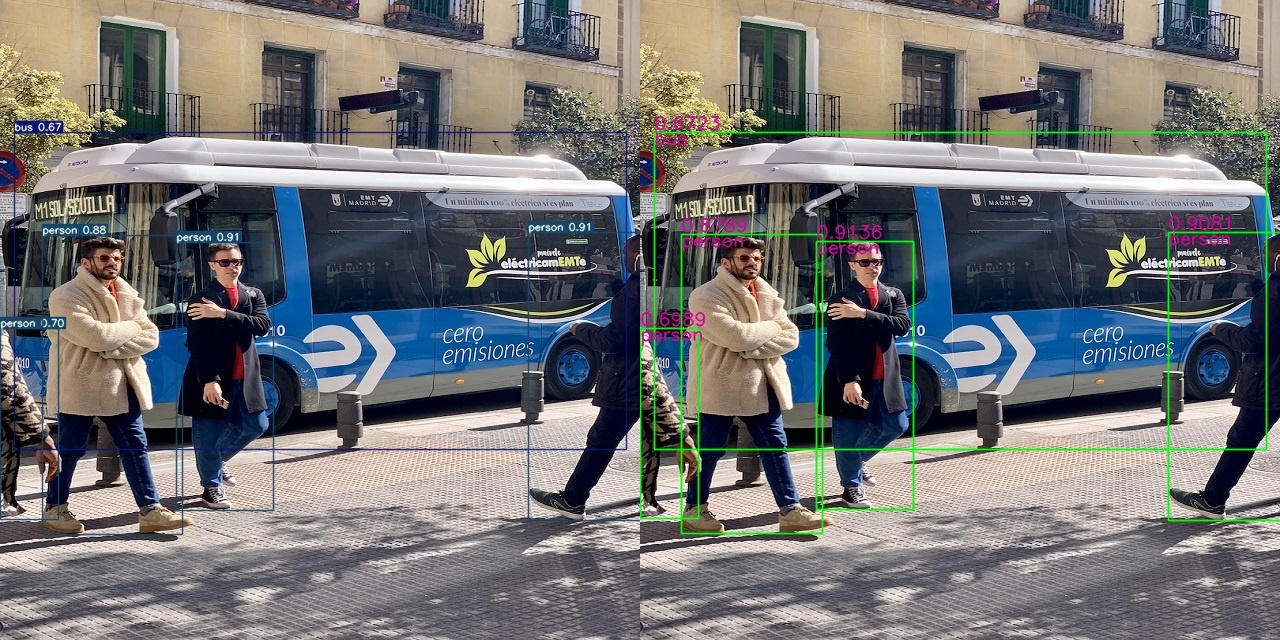
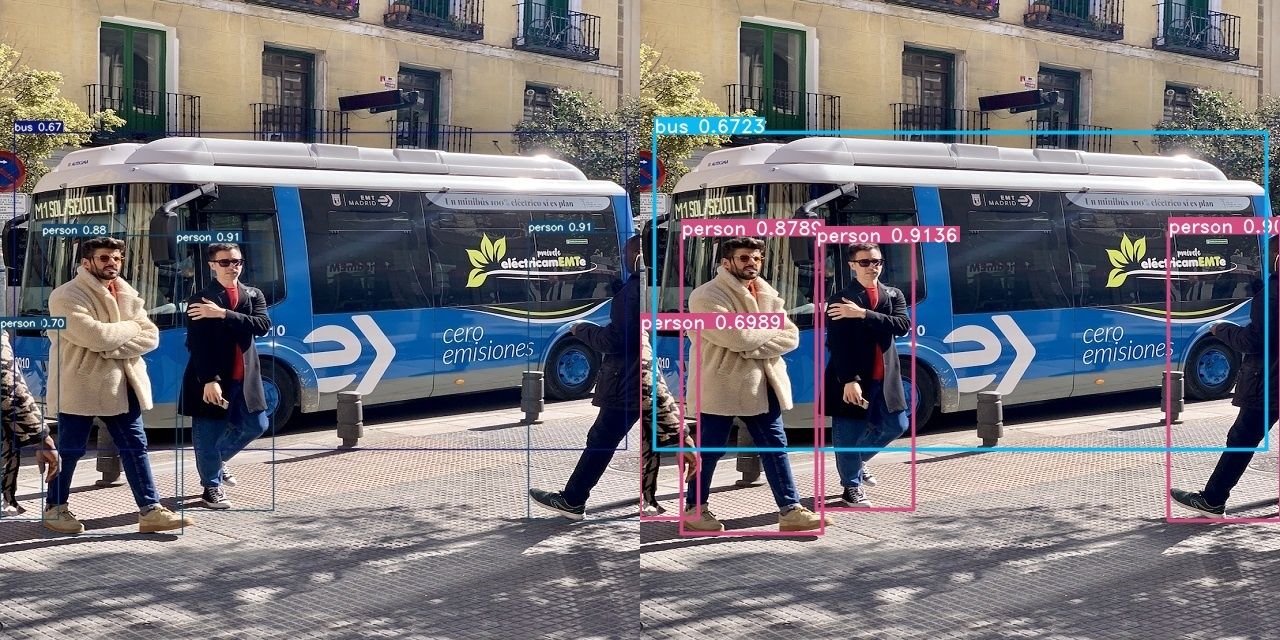
update yolov5.7 yolov6.3 render dstimages!

Changed region(s): [[0.5, 0.1562, 1.0, 0.8438]]

diff --git a/README.md b/README.md
@@ -25,14 +25,10 @@
 </div> 
 
 ## Introduce
-This repository  provides accelerated deployment cases of deep learning CV   popular models, and cuda c accelerated methods for pre-processing and post-processing of mainstream models. Most of the model transformation process is torch->onnx->tensorrt. There are two ways to obtain onnx files:
-- According to the network disk provided by this  repository, download ONNX directly
-- Follow the instructions provided in this repository to manually export ONNX from the relevant source code framework.
-
-```mermaid
-graph LR
-    pytorch/tensorflow -->onnx-->tensorrt
-```
+This repository  provides accelerated deployment cases of deep learning CV popular models, and cuda c supports dynamic-batch image process, infer, decode, NMS. Most of the model transformation process is torch->onnx->tensorrt.<br>
+There are two ways to obtain onnx files:
+- According to the network disk provided by TensorRT-Alpha, download ONNX directly. [weiyun](https://share.weiyun.com/3T3mZKBm) or [google driver](https://drive.google.com/drive/folders/1-8phZHkx_Z274UVqgw6Ma-6u5AKmqCOv?usp=sharing)
+- Follow the instructions provided by TensorRT-Alpha to manually export ONNX from the relevant python source code framework.
 
 ## Update
 - 2023.01.01  🔥 update yolov3, yolov4, yolov5, yolov6
@@ -98,21 +94,37 @@ At present, more than 30  models have been implemented, and some onnx files of t
 
 <div align='center'>
 
-| model |weiyun |google driver |
- :-: | :-: | :-: |
-|[yolov3](yolov3/README.md)| [weiyun](https://share.weiyun.com/3T3mZKBm)| [google driver](https://drive.google.com/drive/folders/1-8phZHkx_Z274UVqgw6Ma-6u5AKmqCOv?usp=sharing)|      
-|[yolov4](yolov4/README.md)| [weiyun](https://share.weiyun.com/3T3mZKBm)| [google driver](https://drive.google.com/drive/folders/1-8phZHkx_Z274UVqgw6Ma-6u5AKmqCOv?usp=sharing)|
-|[yolov5](yolov5/README.md)| [weiyun](https://share.weiyun.com/3T3mZKBm)| [google driver](https://drive.google.com/drive/folders/1-8phZHkx_Z274UVqgw6Ma-6u5AKmqCOv?usp=sharing)|     
-|[yolov6](yolov6/README.md)| [weiyun](https://share.weiyun.com/3T3mZKBm)| [google driver](https://drive.google.com/drive/folders/1-8phZHkx_Z274UVqgw6Ma-6u5AKmqCOv?usp=sharing)|     
-|[yolov7](yolov7/README.md)| [weiyun](https://share.weiyun.com/3T3mZKBm)| [google driver](https://drive.google.com/drive/folders/1-8phZHkx_Z274UVqgw6Ma-6u5AKmqCOv?usp=sharing)|     
-|[yolov8](yolov8/README.md)| [weiyun](https://share.weiyun.com/3T3mZKBm)| [google driver](https://drive.google.com/drive/folders/1-8phZHkx_Z274UVqgw6Ma-6u5AKmqCOv?usp=sharing)|     
-|[yolox](yolox/README.md)| [weiyun](https://share.weiyun.com/3T3mZKBm)| [google driver](https://drive.google.com/drive/folders/1-8phZHkx_Z274UVqgw6Ma-6u5AKmqCOv?usp=sharing)|     
-|[yolor](yolor/README.md)| [weiyun](https://share.weiyun.com/3T3mZKBm)| [google driver](https://drive.google.com/drive/folders/1-8phZHkx_Z274UVqgw6Ma-6u5AKmqCOv?usp=sharing)|     
-|[u2net](u2net/README.md)| [weiyun](https://share.weiyun.com/3T3mZKBm)| [google driver](https://drive.google.com/drive/folders/1-8phZHkx_Z274UVqgw6Ma-6u5AKmqCOv?usp=sharing)|     
-|[libfacedet](libfacedetection/README.md)| [weiyun](https://share.weiyun.com/3T3mZKBm)| [google driver](https://drive.google.com/drive/folders/1-8phZHkx_Z274UVqgw6Ma-6u5AKmqCOv?usp=sharing)|     
-|[facemesh](facemesh/README.md)| [weiyun](https://share.weiyun.com/3T3mZKBm)| [google driver](https://drive.google.com/drive/folders/1-8phZHkx_Z274UVqgw6Ma-6u5AKmqCOv?usp=sharing)|     
+| model | tesla v100(32G) |weiyun |google driver |
+  :-: | :-: | :-: | :-: |
+|[yolov3](yolov3/README.md)| |[weiyun](https://share.weiyun.com/3T3mZKBm)| [google driver](https://drive.google.com/drive/folders/1-8phZHkx_Z274UVqgw6Ma-6u5AKmqCOv?usp=sharing)|      
+|[yolov4](yolov4/README.md)| |[weiyun](https://share.weiyun.com/3T3mZKBm)| [google driver](https://drive.google.com/drive/folders/1-8phZHkx_Z274UVqgw6Ma-6u5AKmqCOv?usp=sharing)|
+|[yolov5](yolov5/README.md)| |[weiyun](https://share.weiyun.com/3T3mZKBm)| [google driver](https://drive.google.com/drive/folders/1-8phZHkx_Z274UVqgw6Ma-6u5AKmqCOv?usp=sharing)|     
+|[yolov6](yolov6/README.md)| |[weiyun](https://share.weiyun.com/3T3mZKBm)| [google driver](https://drive.google.com/drive/folders/1-8phZHkx_Z274UVqgw6Ma-6u5AKmqCOv?usp=sharing)|     
+|[yolov7](yolov7/README.md)| |[weiyun](https://share.weiyun.com/3T3mZKBm)| [google driver](https://drive.google.com/drive/folders/1-8phZHkx_Z274UVqgw6Ma-6u5AKmqCOv?usp=sharing)|     
+|[yolov8](yolov8/README.md)| |[weiyun](https://share.weiyun.com/3T3mZKBm)| [google driver](https://drive.google.com/drive/folders/1-8phZHkx_Z274UVqgw6Ma-6u5AKmqCOv?usp=sharing)|     
+|[yolox](yolox/README.md)| |[weiyun](https://share.weiyun.com/3T3mZKBm)| [google driver](https://drive.google.com/drive/folders/1-8phZHkx_Z274UVqgw6Ma-6u5AKmqCOv?usp=sharing)|     
+|[yolor](yolor/README.md)| |[weiyun](https://share.weiyun.com/3T3mZKBm)| [google driver](https://drive.google.com/drive/folders/1-8phZHkx_Z274UVqgw6Ma-6u5AKmqCOv?usp=sharing)|     
+|[u2net](u2net/README.md)| |[weiyun](https://share.weiyun.com/3T3mZKBm)| [google driver](https://drive.google.com/drive/folders/1-8phZHkx_Z274UVqgw6Ma-6u5AKmqCOv?usp=sharing)|     
+|[libfacedet](libfacedetection/README.md)| |[weiyun](https://share.weiyun.com/3T3mZKBm)| [google driver](https://drive.google.com/drive/folders/1-8phZHkx_Z274UVqgw6Ma-6u5AKmqCOv?usp=sharing)|     
+|[facemesh](facemesh/README.md)| |[weiyun](https://share.weiyun.com/3T3mZKBm)| [google driver](https://drive.google.com/drive/folders/1-8phZHkx_Z274UVqgw6Ma-6u5AKmqCOv?usp=sharing)|     
 |more...(🚀: I will be back soon!)    |      |          |
 </div>  
+
+🍉We will test the time of all models on tesla v100 and A100! Now let's preview the performance of yolov8n on RTX2070m(8G)：
+<div align='center'>
+
+| model | input size |GPU Memory-Usage |GPU-Util|
+  :-: | :-: | :-: | :-: |
+|yolov8n|640x640(batch_size=8)|1093MiB/7982MiB| 14%| 
+
+ <center>	<!--将图片和文字居中-->
+<img src=".github/cost-time-yolov8n-batch-8-640.png"
+     alt="无法显示图片时显示的文字"
+     style="zoom:50%"/>
+<br>		<!--换行-->
+
+</div>
+<br>
 
 ## Some Precision Alignment Renderings Comparison
 <br>
@@ -120,7 +132,7 @@ At present, more than 30  models have been implemented, and some onnx files of t
      <center>	<!--将图片和文字居中-->
     <img src=".github/yolov8n-Offical(left)vsOurs(right).jpg"
          alt="无法显示图片时显示的文字"
-         style="zoom:100%"/>
+         style="zoom:80%"/>
     <br>		<!--换行-->
     <center>yolov8n : Offical( left ) vs Ours( right )	<!--标题--></center>
     <br>		<!--换行-->
@@ -128,14 +140,28 @@ At present, more than 30  models have been implemented, and some onnx files of t
     <center>	<!--将图片和文字居中-->
     <img src=".github/yolov7-tiny-Offical(left)vsOurs(right).jpg"
          alt="无法显示图片时显示的文字"
-         style="zoom:100%"/>
+         style="zoom:80%"/>
     <br>		<!--换行-->
     <center>yolov7-tiny : Offical( left ) vs Ours( right )	<!--标题--></center>
     <br>		<!--换行-->
     <br>		<!--换行-->
-    <img src=".github/yolov5s-Offical(left)vsOurs(right).jpg"
+    <img src=".github/yolov6s-v6.3-Offical(left)vsOurs(right).jpg"
          alt="无法显示图片时显示的文字"
-         style="zoom:100%"/>
+         style="zoom:80%"/>
+    <br>		<!--换行-->
+    <center>yolov6s : Offical( left ) vs Ours( right )	<!--标题--></center>
+    <br>		<!--换行-->
+    <br>		<!--换行-->
+    <img src=".github/yolov5s-v5.7-Offical(left)vsOurs(right)-img2.jpg"
+         alt="无法显示图片时显示的文字"
+         style="zoom:80%"/>
+    <br>		<!--换行-->
+    <center>yolov5s : Offical( left ) vs Ours( right )	<!--标题--></center>
+    <br>		<!--换行-->
+    <br>		<!--换行-->
+    <img src=".github/yolov5s-v5.7-Offical(left)vsOurs(right)-img1.jpg"
+         alt="无法显示图片时显示的文字"
+         style="zoom:80%"/>
     <br>		<!--换行-->
     <center>yolov5s : Offical( left ) vs Ours( right )	<!--标题--></center>
     <br>		<!--换行-->

diff --git a/README_cn.md b/README_cn.md
@@ -24,15 +24,10 @@
 </div> 
 
 ## 介绍
-本仓库提供深度学习CV领域模型加速部署案例，主流模型前处理、后处理提供cuda c加速方法。大部分模型转换流程为：torch->onnx->tensorrt。获取onnx文件以下有两种方式：
-
-- 本仓库提供的网盘直接下载onnx；
+本仓库提供深度学习CV领域模型加速部署案例，仓库实现的cuda c支持多batch图像预处理、推理、decode、NMS。大部分模型转换流程为：torch->onnx->tensorrt。
+获取onnx文件以下有两种方式：<br>
+- 本仓库提供的网盘直接下载onnx。[weiyun](https://share.weiyun.com/3T3mZKBm) or [google driver](https://drive.google.com/drive/folders/1-8phZHkx_Z274UVqgw6Ma-6u5AKmqCOv?usp=sharing)
 - 按照本仓库提供的指令，手动从相关源代码框架导出onnx。
-
-```mermaid
-graph LR
-    pytorch/tensorflow -->onnx-->tensorrt
-```
 
 ## 更新
 - 2023.01.01  🔥 更新 yolov3, yolov4, yolov5, yolov6
@@ -95,21 +90,37 @@ waiting for update
 目前已实现30多个主流模型，部分整理好的onnx文件如下列表：
 <div align='center'>
 
-| model |weiyun |google driver |
- :-: | :-: | :-: |
-|[yolov3](yolov3/README.md)| [weiyun](https://share.weiyun.com/3T3mZKBm)| [google driver](https://drive.google.com/drive/folders/1-8phZHkx_Z274UVqgw6Ma-6u5AKmqCOv?usp=sharing)|      
-|[yolov4](yolov4/README.md)| [weiyun](https://share.weiyun.com/3T3mZKBm)| [google driver](https://drive.google.com/drive/folders/1-8phZHkx_Z274UVqgw6Ma-6u5AKmqCOv?usp=sharing)|
-|[yolov5](yolov5/README.md)| [weiyun](https://share.weiyun.com/3T3mZKBm)| [google driver](https://drive.google.com/drive/folders/1-8phZHkx_Z274UVqgw6Ma-6u5AKmqCOv?usp=sharing)|     
-|[yolov6](yolov6/README.md)| [weiyun](https://share.weiyun.com/3T3mZKBm)| [google driver](https://drive.google.com/drive/folders/1-8phZHkx_Z274UVqgw6Ma-6u5AKmqCOv?usp=sharing)|     
-|[yolov7](yolov7/README.md)| [weiyun](https://share.weiyun.com/3T3mZKBm)| [google driver](https://drive.google.com/drive/folders/1-8phZHkx_Z274UVqgw6Ma-6u5AKmqCOv?usp=sharing)|     
-|[yolov8](yolov8/README.md)| [weiyun](https://share.weiyun.com/3T3mZKBm)| [google driver](https://drive.google.com/drive/folders/1-8phZHkx_Z274UVqgw6Ma-6u5AKmqCOv?usp=sharing)|     
-|[yolox](yolox/README.md)| [weiyun](https://share.weiyun.com/3T3mZKBm)| [google driver](https://drive.google.com/drive/folders/1-8phZHkx_Z274UVqgw6Ma-6u5AKmqCOv?usp=sharing)|     
-|[yolor](yolor/README.md)| [weiyun](https://share.weiyun.com/3T3mZKBm)| [google driver](https://drive.google.com/drive/folders/1-8phZHkx_Z274UVqgw6Ma-6u5AKmqCOv?usp=sharing)|     
-|[u2net](u2net/README.md)| [weiyun](https://share.weiyun.com/3T3mZKBm)| [google driver](https://drive.google.com/drive/folders/1-8phZHkx_Z274UVqgw6Ma-6u5AKmqCOv?usp=sharing)|     
-|[libfacedet](libfacedetection/README.md)| [weiyun](https://share.weiyun.com/3T3mZKBm)| [google driver](https://drive.google.com/drive/folders/1-8phZHkx_Z274UVqgw6Ma-6u5AKmqCOv?usp=sharing)|     
-|[facemesh](facemesh/README.md)| [weiyun](https://share.weiyun.com/3T3mZKBm)| [google driver](https://drive.google.com/drive/folders/1-8phZHkx_Z274UVqgw6Ma-6u5AKmqCOv?usp=sharing)|     
+| model|tesla v100(32G)|weiyun |google driver |
+ :-: | :-: | :-: | :-: |
+|[yolov3](yolov3/README.md)| |[weiyun](https://share.weiyun.com/3T3mZKBm)| [google driver](https://drive.google.com/drive/folders/1-8phZHkx_Z274UVqgw6Ma-6u5AKmqCOv?usp=sharing)|      
+|[yolov4](yolov4/README.md)| |[weiyun](https://share.weiyun.com/3T3mZKBm)| [google driver](https://drive.google.com/drive/folders/1-8phZHkx_Z274UVqgw6Ma-6u5AKmqCOv?usp=sharing)|
+|[yolov5](yolov5/README.md)| |[weiyun](https://share.weiyun.com/3T3mZKBm)| [google driver](https://drive.google.com/drive/folders/1-8phZHkx_Z274UVqgw6Ma-6u5AKmqCOv?usp=sharing)|     
+|[yolov6](yolov6/README.md)| |[weiyun](https://share.weiyun.com/3T3mZKBm)| [google driver](https://drive.google.com/drive/folders/1-8phZHkx_Z274UVqgw6Ma-6u5AKmqCOv?usp=sharing)|     
+|[yolov7](yolov7/README.md)| |[weiyun](https://share.weiyun.com/3T3mZKBm)| [google driver](https://drive.google.com/drive/folders/1-8phZHkx_Z274UVqgw6Ma-6u5AKmqCOv?usp=sharing)|     
+|[yolov8](yolov8/README.md)| |[weiyun](https://share.weiyun.com/3T3mZKBm)| [google driver](https://drive.google.com/drive/folders/1-8phZHkx_Z274UVqgw6Ma-6u5AKmqCOv?usp=sharing)|     
+|[yolox](yolox/README.md)| |[weiyun](https://share.weiyun.com/3T3mZKBm)| [google driver](https://drive.google.com/drive/folders/1-8phZHkx_Z274UVqgw6Ma-6u5AKmqCOv?usp=sharing)|     
+|[yolor](yolor/README.md)| |[weiyun](https://share.weiyun.com/3T3mZKBm)| [google driver](https://drive.google.com/drive/folders/1-8phZHkx_Z274UVqgw6Ma-6u5AKmqCOv?usp=sharing)|     
+|[u2net](u2net/README.md)| |[weiyun](https://share.weiyun.com/3T3mZKBm)| [google driver](https://drive.google.com/drive/folders/1-8phZHkx_Z274UVqgw6Ma-6u5AKmqCOv?usp=sharing)|     
+|[libfacedet](libfacedetection/README.md)| |[weiyun](https://share.weiyun.com/3T3mZKBm)| [google driver](https://drive.google.com/drive/folders/1-8phZHkx_Z274UVqgw6Ma-6u5AKmqCOv?usp=sharing)|     
+|[facemesh](facemesh/README.md)| |[weiyun](https://share.weiyun.com/3T3mZKBm)| [google driver](https://drive.google.com/drive/folders/1-8phZHkx_Z274UVqgw6Ma-6u5AKmqCOv?usp=sharing)|     
 |more...(🚀: I will be back soon!)    |      |          |
 </div>  
+
+🍉稍后在tesla v100 和 A100上测量时间开销!现在看看yolov8n在移动端RTX2070m(8G)的性能表现：
+<div align='center'>
+
+| model | input size |GPU Memory-Usage |GPU-Util|
+  :-: | :-: | :-: | :-: |
+|yolov8n|640x640(batch_size=8)|1093MiB/7982MiB| 14%| 
+
+ <center>	<!--将图片和文字居中-->
+<img src=".github/cost-time-yolov8n-batch-8-640.png"
+     alt="无法显示图片时显示的文字"
+     style="zoom:50%"/>
+<br>		<!--换行-->
+
+</div>
+<br>
 
 ## 严格的精度对齐，官方效果 vs TensorRT-Alpha:
 <br>
@@ -130,7 +141,21 @@ waiting for update
     <center>yolov7-tiny : Offical( left ) vs Ours( right )	<!--标题--></center>
     <br>		<!--换行-->
     <br>		<!--换行-->
-    <img src=".github/yolov5s-Offical(left)vsOurs(right).jpg"
+    <img src=".github/yolov6s-v6.3-Offical(left)vsOurs(right).jpg"
+         alt="无法显示图片时显示的文字"
+         style="zoom:100%"/>
+    <br>		<!--换行-->
+    <center>yolov6s : Offical( left ) vs Ours( right )	<!--标题--></center>
+    <br>		<!--换行-->
+    <br>		<!--换行-->
+    <img src=".github/yolov5s-v5.7-Offical(left)vsOurs(right)-img2.jpg"
+         alt="无法显示图片时显示的文字"
+         style="zoom:100%"/>
+    <br>		<!--换行-->
+    <center>yolov5s : Offical( left ) vs Ours( right )	<!--标题--></center>
+    <br>		<!--换行-->
+    <br>		<!--换行-->
+    <img src=".github/yolov5s-v5.7-Offical(left)vsOurs(right)-img1.jpg"
          alt="无法显示图片时显示的文字"
          style="zoom:100%"/>
     <br>		<!--换行-->
